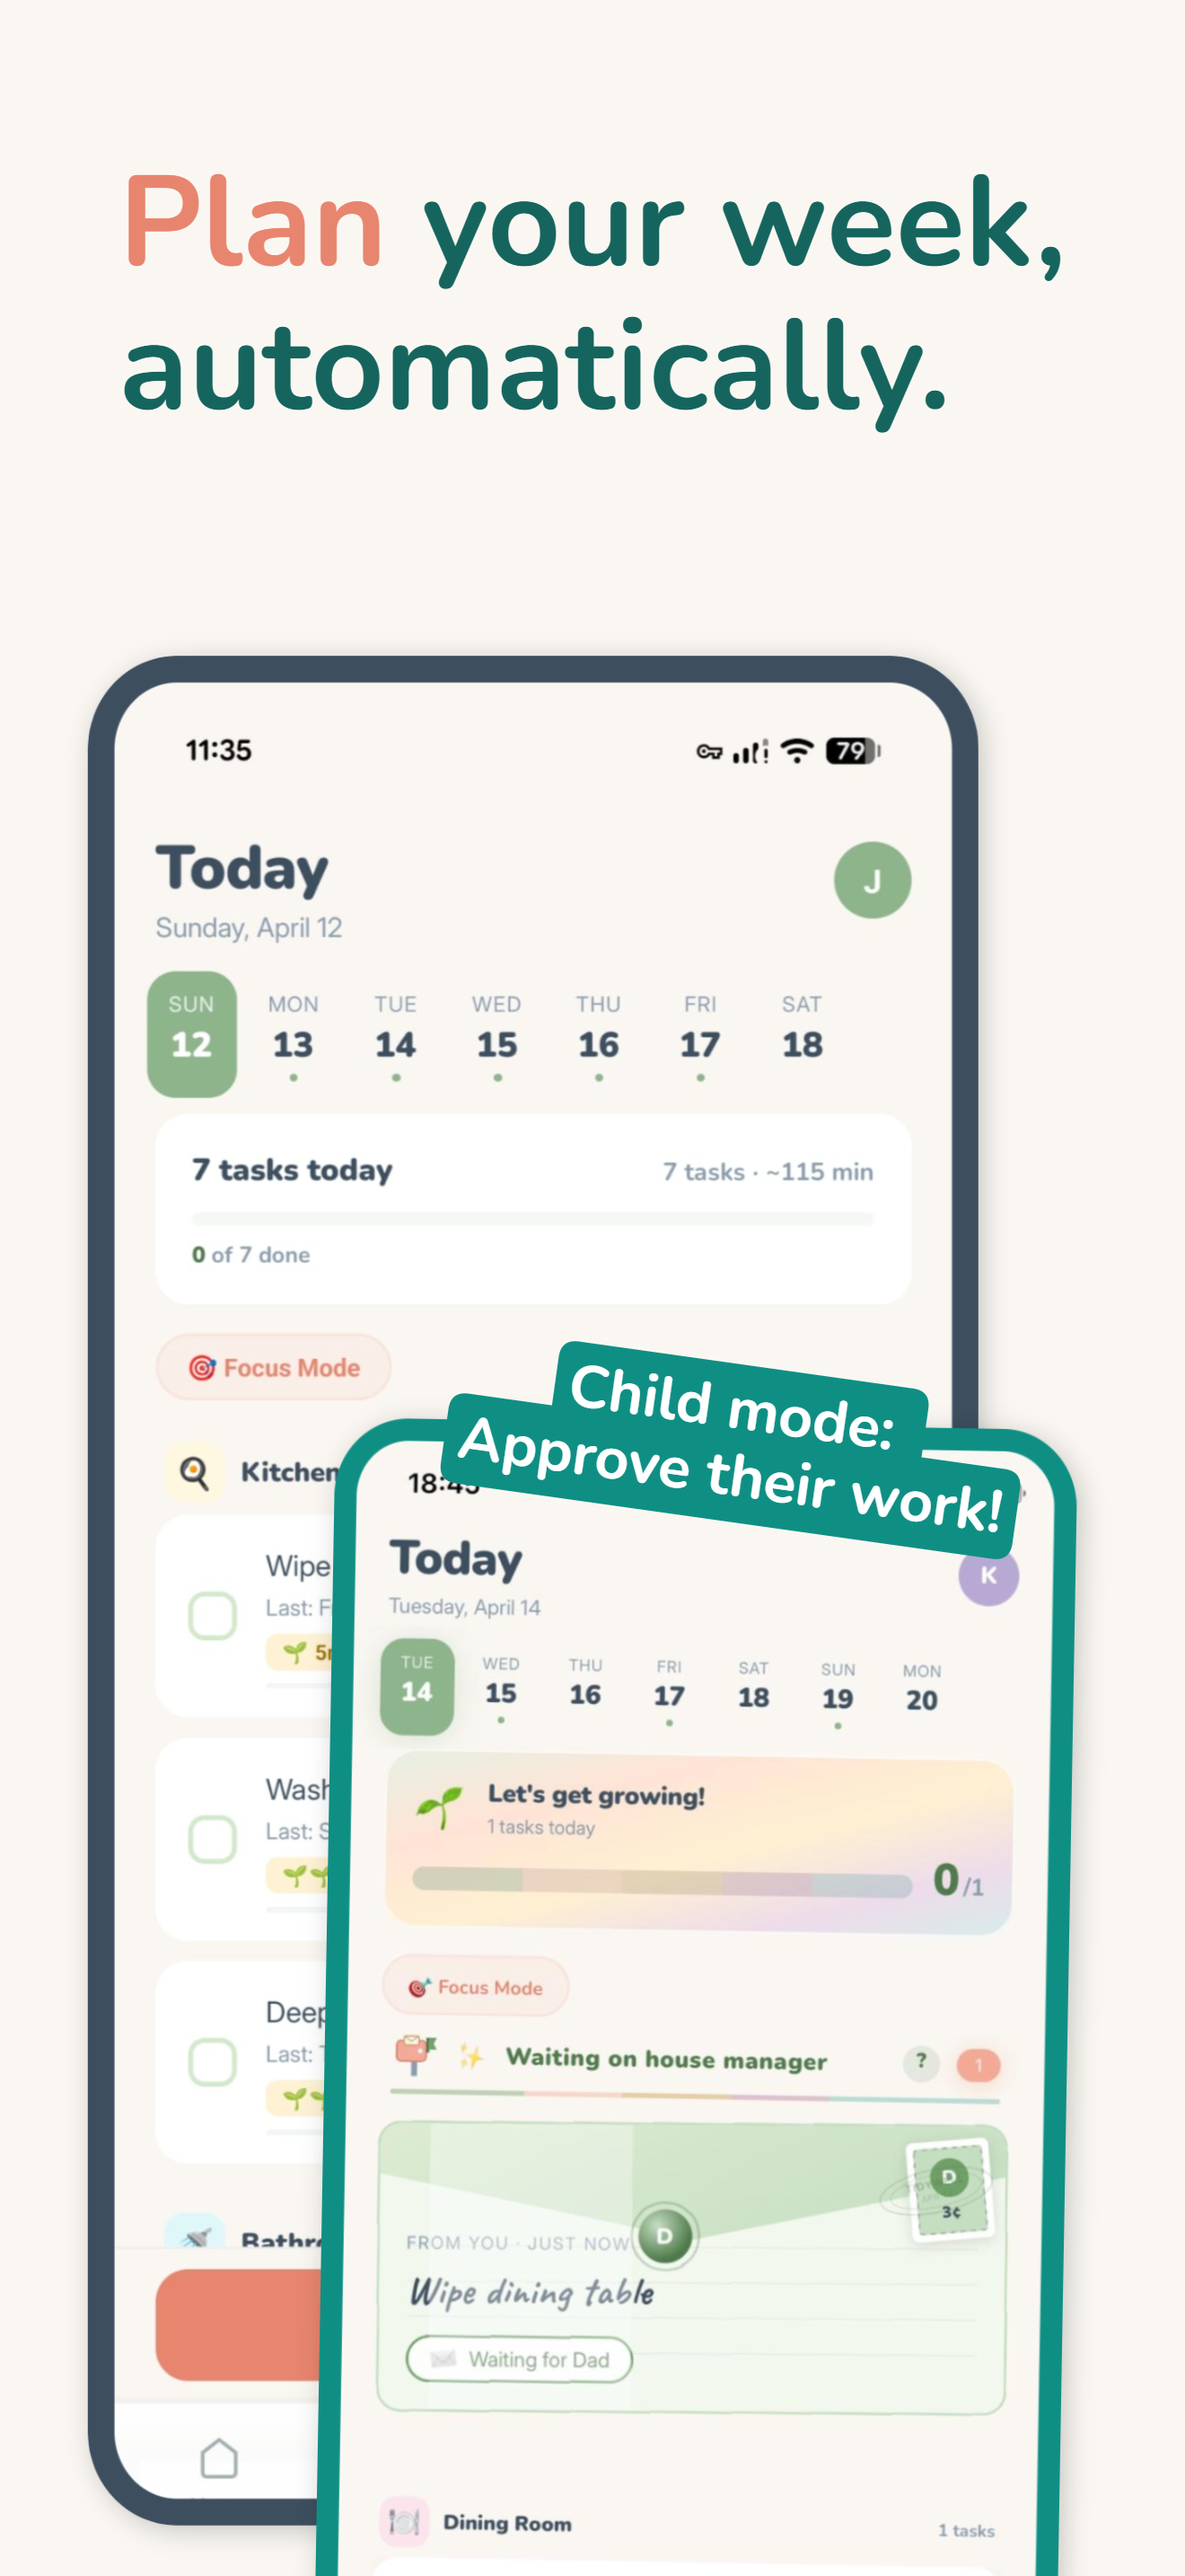
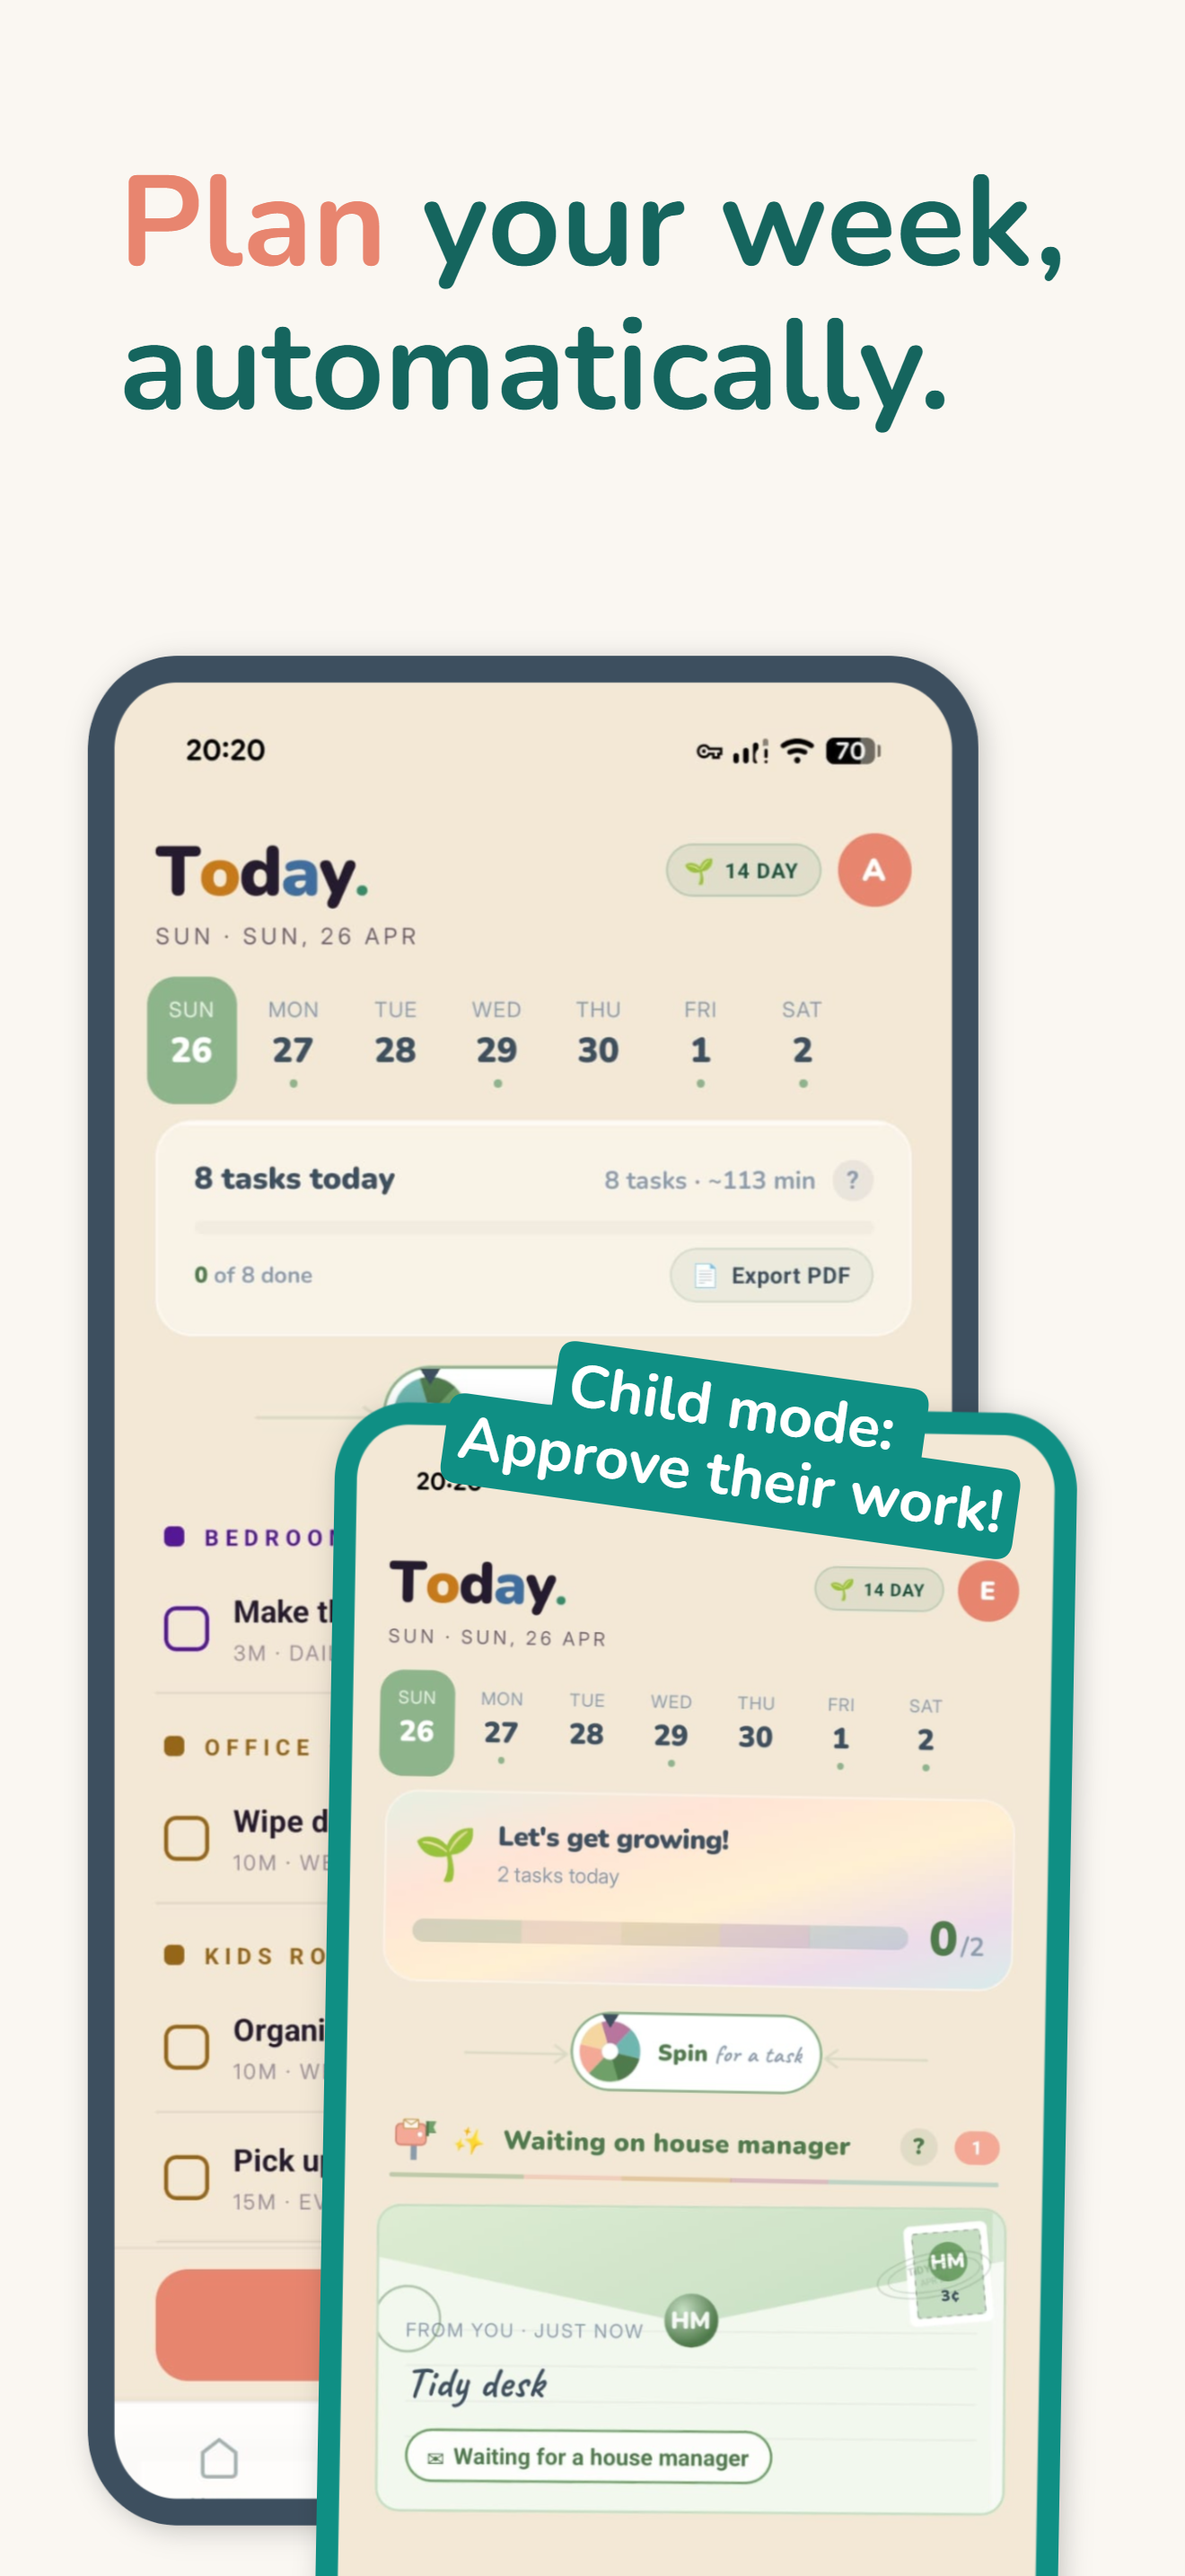
apps index: add Lights Out card with mockup screenshots; update Tidywell shots
Lights Out now renders the standard 3-phone PhoneTray using brand
mockup captures (shield / wind-down / morning), generated via
scripts/capture-lightsout.mjs. Tidywell screenshots swapped for the
6.9-inch App Store set. PhoneTray caption reads 'mockup' for waitlist
apps, 'in the wild' for shipped.

diff --git a/scripts/lightsout-shots.html b/scripts/lightsout-shots.html
@@ -1,0 +1,121 @@
+<!doctype html>
+<html lang="en">
+<head>
+<meta charset="utf-8" />
+<link rel="preconnect" href="https://fonts.googleapis.com" />
+<link rel="preconnect" href="https://fonts.gstatic.com" crossorigin />
+<link href="https://fonts.googleapis.com/css2?family=Newsreader:ital,opsz,wght@1,6..72,300;1,6..72,400&family=Geist:wght@300;400;500;600&family=Geist+Mono:wght@400;500&display=swap" rel="stylesheet" />
+<style>
+  :root {
+    --bg:#04050c; --sand:#D9C7A0; --sand-glow:rgba(217,199,160,0.42);
+    --moonlight:#7891C7; --high:#E8E4DA; --med:rgba(232,228,218,0.72); --low:rgba(232,228,218,0.48);
+    --serif:'Newsreader',Georgia,serif; --sans:'Geist',system-ui,sans-serif; --mono:'Geist Mono',monospace;
+  }
+  * { margin:0; padding:0; box-sizing:border-box; }
+  body { background:#222; display:flex; gap:24px; padding:24px; flex-wrap:wrap; }
+  .screen { width:430px; height:932px; position:relative; overflow:hidden; font-family:var(--sans);
+    color:var(--high); display:flex; flex-direction:column; align-items:center; }
+  /* status bar */
+  .status { width:100%; display:flex; justify-content:space-between; align-items:center;
+    padding:18px 34px 0; font-family:var(--mono); font-size:15px; font-weight:500; color:var(--high); }
+  .status .ico { display:flex; gap:6px; align-items:center; opacity:.9; }
+  .status .ico span { display:inline-block; }
+  .bars { width:18px; height:11px; background:
+      linear-gradient(to right, currentColor 0 3px, transparent 3px 4px, currentColor 4px 7px, transparent 7px 8px, currentColor 8px 11px, transparent 11px 12px, currentColor 12px 18px); border-radius:1px; }
+  .batt { width:24px; height:12px; border:1.5px solid currentColor; border-radius:3px; position:relative; }
+  .batt::after { content:''; position:absolute; inset:2px; right:6px; background:currentColor; border-radius:1px; }
+  .batt::before { content:''; position:absolute; right:-3px; top:3px; width:2px; height:6px; background:currentColor; border-radius:0 1px 1px 0; }
+
+  .kick { font-family:var(--mono); font-size:13px; letter-spacing:.22em; text-transform:uppercase; color:var(--low); }
+  .title { font-family:var(--serif); font-style:italic; font-weight:300; line-height:1.1; }
+
+  /* SHIELD */
+  #s1 { background:radial-gradient(120% 65% at 50% 18%, rgba(120,145,199,0.18), transparent 60%), var(--bg); }
+  #s1 .body-wrap { flex:1; display:flex; flex-direction:column; align-items:center; justify-content:center; text-align:center; padding:0 46px; gap:26px; }
+  #s1 .moon { filter:drop-shadow(0 0 60px var(--sand-glow)); }
+  #s1 .title { font-size:40px; color:var(--high); }
+  #s1 .sub { font-size:18px; color:var(--med); line-height:1.5; max-width:26ch; }
+  #s1 .btns { width:100%; padding:0 34px 64px; display:flex; flex-direction:column; gap:14px; }
+  .btn { width:100%; text-align:center; padding:18px 0; border-radius:999px; font-size:18px; font-weight:500; }
+  .btn.primary { background:var(--sand); color:#1a160c; }
+  .btn.ghost { background:transparent; color:var(--med); border:1px solid rgba(232,228,218,0.18); }
+
+  /* SESSION */
+  #s2 { background:radial-gradient(85% 55% at 50% 44%, rgba(217,199,160,0.12), transparent 70%), var(--bg); }
+  #s2 .body-wrap { flex:1; display:flex; flex-direction:column; align-items:center; justify-content:center; text-align:center; gap:30px; padding:0 40px; }
+  #s2 .breath { position:relative; width:260px; height:260px; display:grid; place-items:center; }
+  #s2 .ring { position:absolute; border-radius:50%; border:1.5px solid var(--sand); }
+  #s2 .ring.r1 { inset:0; opacity:.4; } #s2 .ring.r2 { inset:34px; opacity:.28; } #s2 .ring.r3 { inset:72px; opacity:.18; }
+  #s2 .core { width:104px; height:104px; border-radius:50%; background:radial-gradient(circle at 40% 35%, var(--sand), rgba(217,199,160,0.4)); box-shadow:0 0 60px var(--sand-glow); }
+  #s2 .title { font-size:30px; color:var(--high); }
+  #s2 .cue { font-size:17px; color:var(--med); letter-spacing:.02em; }
+  #s2 .timer { font-family:var(--mono); font-size:14px; letter-spacing:.2em; color:var(--low); text-transform:uppercase; padding-bottom:64px; }
+
+  /* MORNING */
+  #s3 { background:linear-gradient(180deg, #14112a 0%, #2c2140 30%, #7a5a6e 64%, #d9a06a 100%); }
+  #s3 .body-wrap { flex:1; display:flex; flex-direction:column; align-items:center; justify-content:center; text-align:center; gap:22px; padding:0 44px; }
+  #s3 .sun { width:120px; height:120px; border-radius:50%; background:radial-gradient(circle at 50% 50%, #ffe7b8, #f3b76b 70%, rgba(243,183,107,0.2)); box-shadow:0 0 80px rgba(245,200,130,0.6); margin-bottom:10px; }
+  #s3 .title { font-size:48px; color:#fdf3e6; }
+  #s3 .dur { font-size:20px; color:rgba(253,243,230,0.86); line-height:1.5; max-width:24ch; }
+  #s3 .dur b { color:#fff; font-weight:500; }
+  #s3 .btns { width:100%; padding:0 34px 60px; display:flex; flex-direction:column; gap:12px; align-items:center; }
+  #s3 .btn.primary { background:#1c1630; color:#fdf3e6; }
+  #s3 .link { font-family:var(--serif); font-style:italic; font-size:16px; color:rgba(28,22,48,0.7); }
+</style>
+</head>
+<body>
+  <!-- 01 · SHIELD -->
+  <div class="screen" id="s1">
+    <div class="status"><span>9:41</span><span class="ico"><span class="bars"></span><span class="batt"></span></span></div>
+    <div class="body-wrap">
+      <svg class="moon" width="150" height="150" viewBox="0 0 140 140" fill="none">
+        <defs>
+          <radialGradient id="mg" cx="50%" cy="50%" r="50%"><stop offset="0%" stop-color="#D9C7A0" stop-opacity="0.32"/><stop offset="60%" stop-color="#7891C7" stop-opacity="0.08"/><stop offset="100%" stop-color="#D9C7A0" stop-opacity="0"/></radialGradient>
+          <radialGradient id="ms" cx="40%" cy="40%" r="50%"><stop offset="0%" stop-color="#D9C7A0" stop-opacity="1"/><stop offset="80%" stop-color="#D9C7A0" stop-opacity="0.85"/><stop offset="100%" stop-color="#7891C7" stop-opacity="0.55"/></radialGradient>
+        </defs>
+        <circle cx="70" cy="70" r="66" fill="url(#mg)"/>
+        <circle cx="70" cy="70" r="44" fill="url(#ms)"/>
+        <circle cx="58" cy="62" r="4" fill="#D9C7A0" fill-opacity="0.16"/>
+        <circle cx="80" cy="78" r="2.6" fill="#D9C7A0" fill-opacity="0.14"/>
+        <circle cx="84" cy="58" r="2" fill="#D9C7A0" fill-opacity="0.12"/>
+        <circle cx="62" cy="84" r="1.7" fill="#D9C7A0" fill-opacity="0.14"/>
+      </svg>
+      <div class="title">your phone, but only<br/>for sleeping.</div>
+      <div class="sub">lights out ends at 7:00 am. you&rsquo;ve got this.</div>
+    </div>
+    <div class="btns">
+      <div class="btn primary">close</div>
+      <div class="btn ghost">request 10 min</div>
+    </div>
+  </div>
+
+  <!-- 02 · WIND-DOWN -->
+  <div class="screen" id="s2">
+    <div class="status"><span>10:58</span><span class="ico"><span class="bars"></span><span class="batt"></span></span></div>
+    <div class="body-wrap">
+      <div class="kick">wind-down &middot; long exhale</div>
+      <div class="breath">
+        <span class="ring r1"></span><span class="ring r2"></span><span class="ring r3"></span>
+        <span class="core"></span>
+      </div>
+      <div class="title">breathe out, slowly.</div>
+      <div class="cue">4 in &middot; 7 hold &middot; 8 out</div>
+    </div>
+    <div class="timer">06:32 left</div>
+  </div>
+
+  <!-- 03 · MORNING -->
+  <div class="screen" id="s3">
+    <div class="status" style="color:#fdf3e6"><span>7:02</span><span class="ico"><span class="bars"></span><span class="batt"></span></span></div>
+    <div class="body-wrap">
+      <div class="sun"></div>
+      <div class="title">good morning.</div>
+      <div class="dur">your phone curfew lasted <b>8h 12m</b>. the longest this week.</div>
+    </div>
+    <div class="btns">
+      <div class="btn primary">open the day</div>
+      <div class="link">log last night</div>
+    </div>
+  </div>
+</body>
+</html>

diff --git a/lib/apps.ts b/lib/apps.ts
@@ -171,7 +171,7 @@ export const APPS: AppEntry[] = [
     audience:
       'Revenge bedtime procrastinators · doomscrollers · shift workers · anyone who has tapped past a screen-time limit',
     web: 'https://johnnybuildstech.com/apps/lightsout',
-    shots: [],
+    shots: ['/apps/lightsout/01.png', '/apps/lightsout/02.png', '/apps/lightsout/03.png'],
     accent: '#D9C7A0',
     status: 'waitlist',
     waitlistHref: '/apps/lightsout#waitlist',

diff --git a/components/apps/AppCard.tsx b/components/apps/AppCard.tsx
@@ -525,7 +525,7 @@ function PhoneTray({ app }: { app: AppEntry }) {
         className="mt-3 text-right font-mono text-[10px] uppercase tracking-[0.22em]"
         style={{ color: 'var(--color-gold-dim)' }}
       >
-        {app.name.toLowerCase()} · in the wild
+        {app.name.toLowerCase()} · {app.status === 'waitlist' ? 'mockup' : 'in the wild'}
       </div>
     </div>
   );
